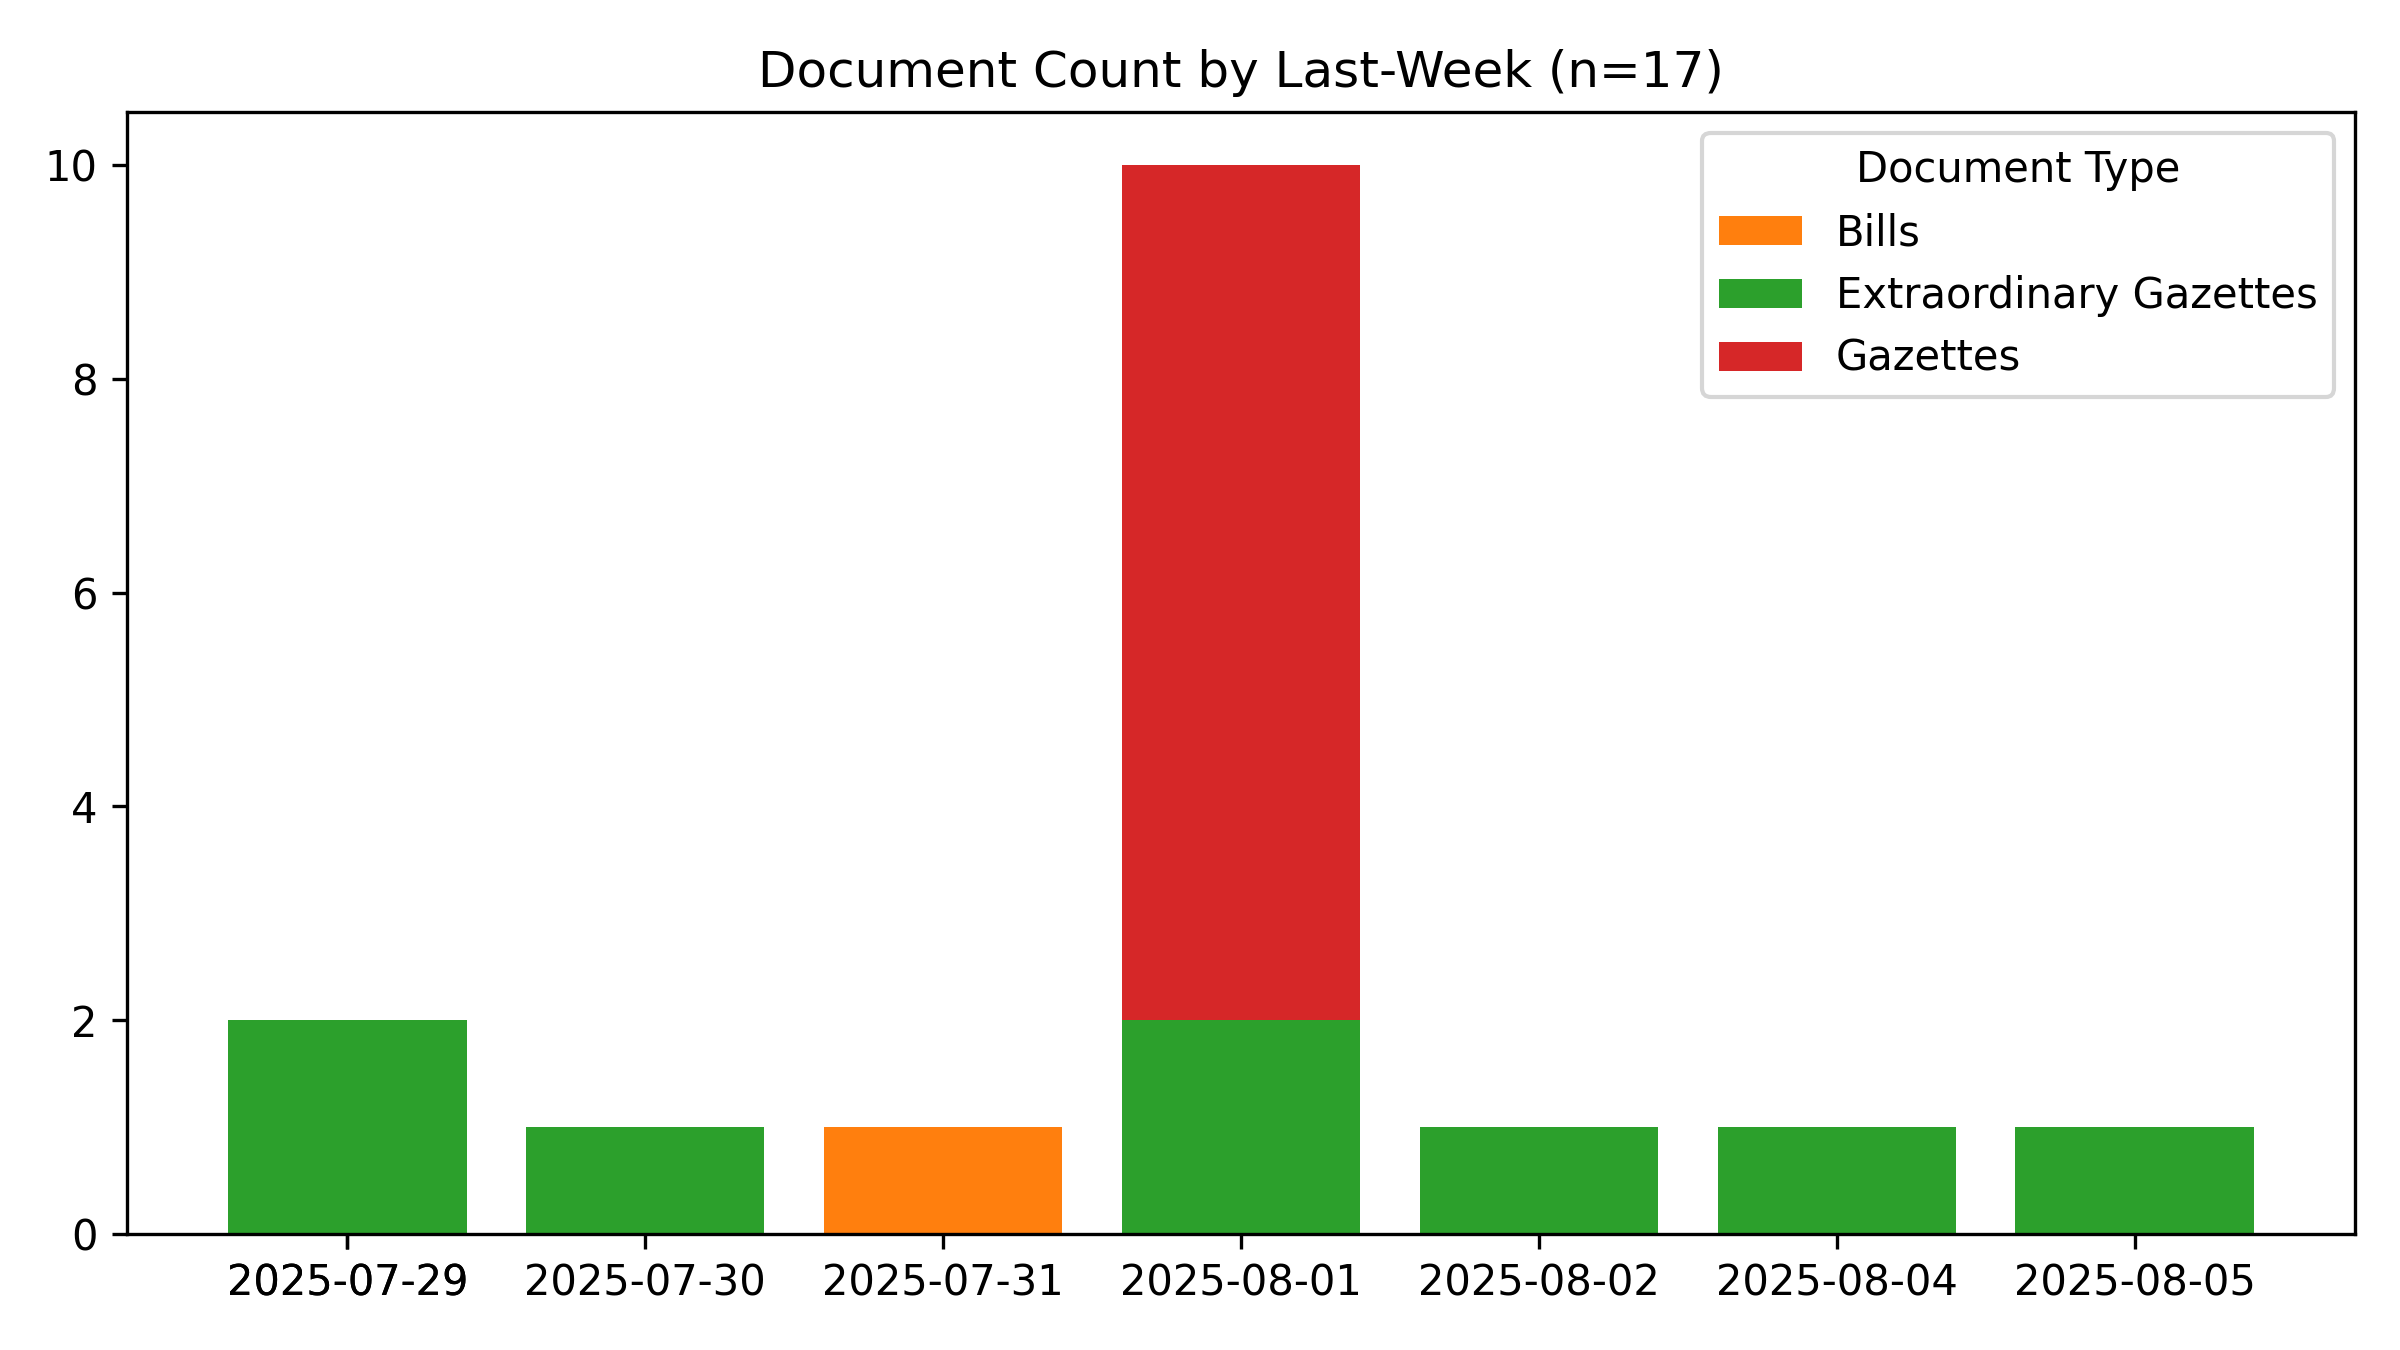
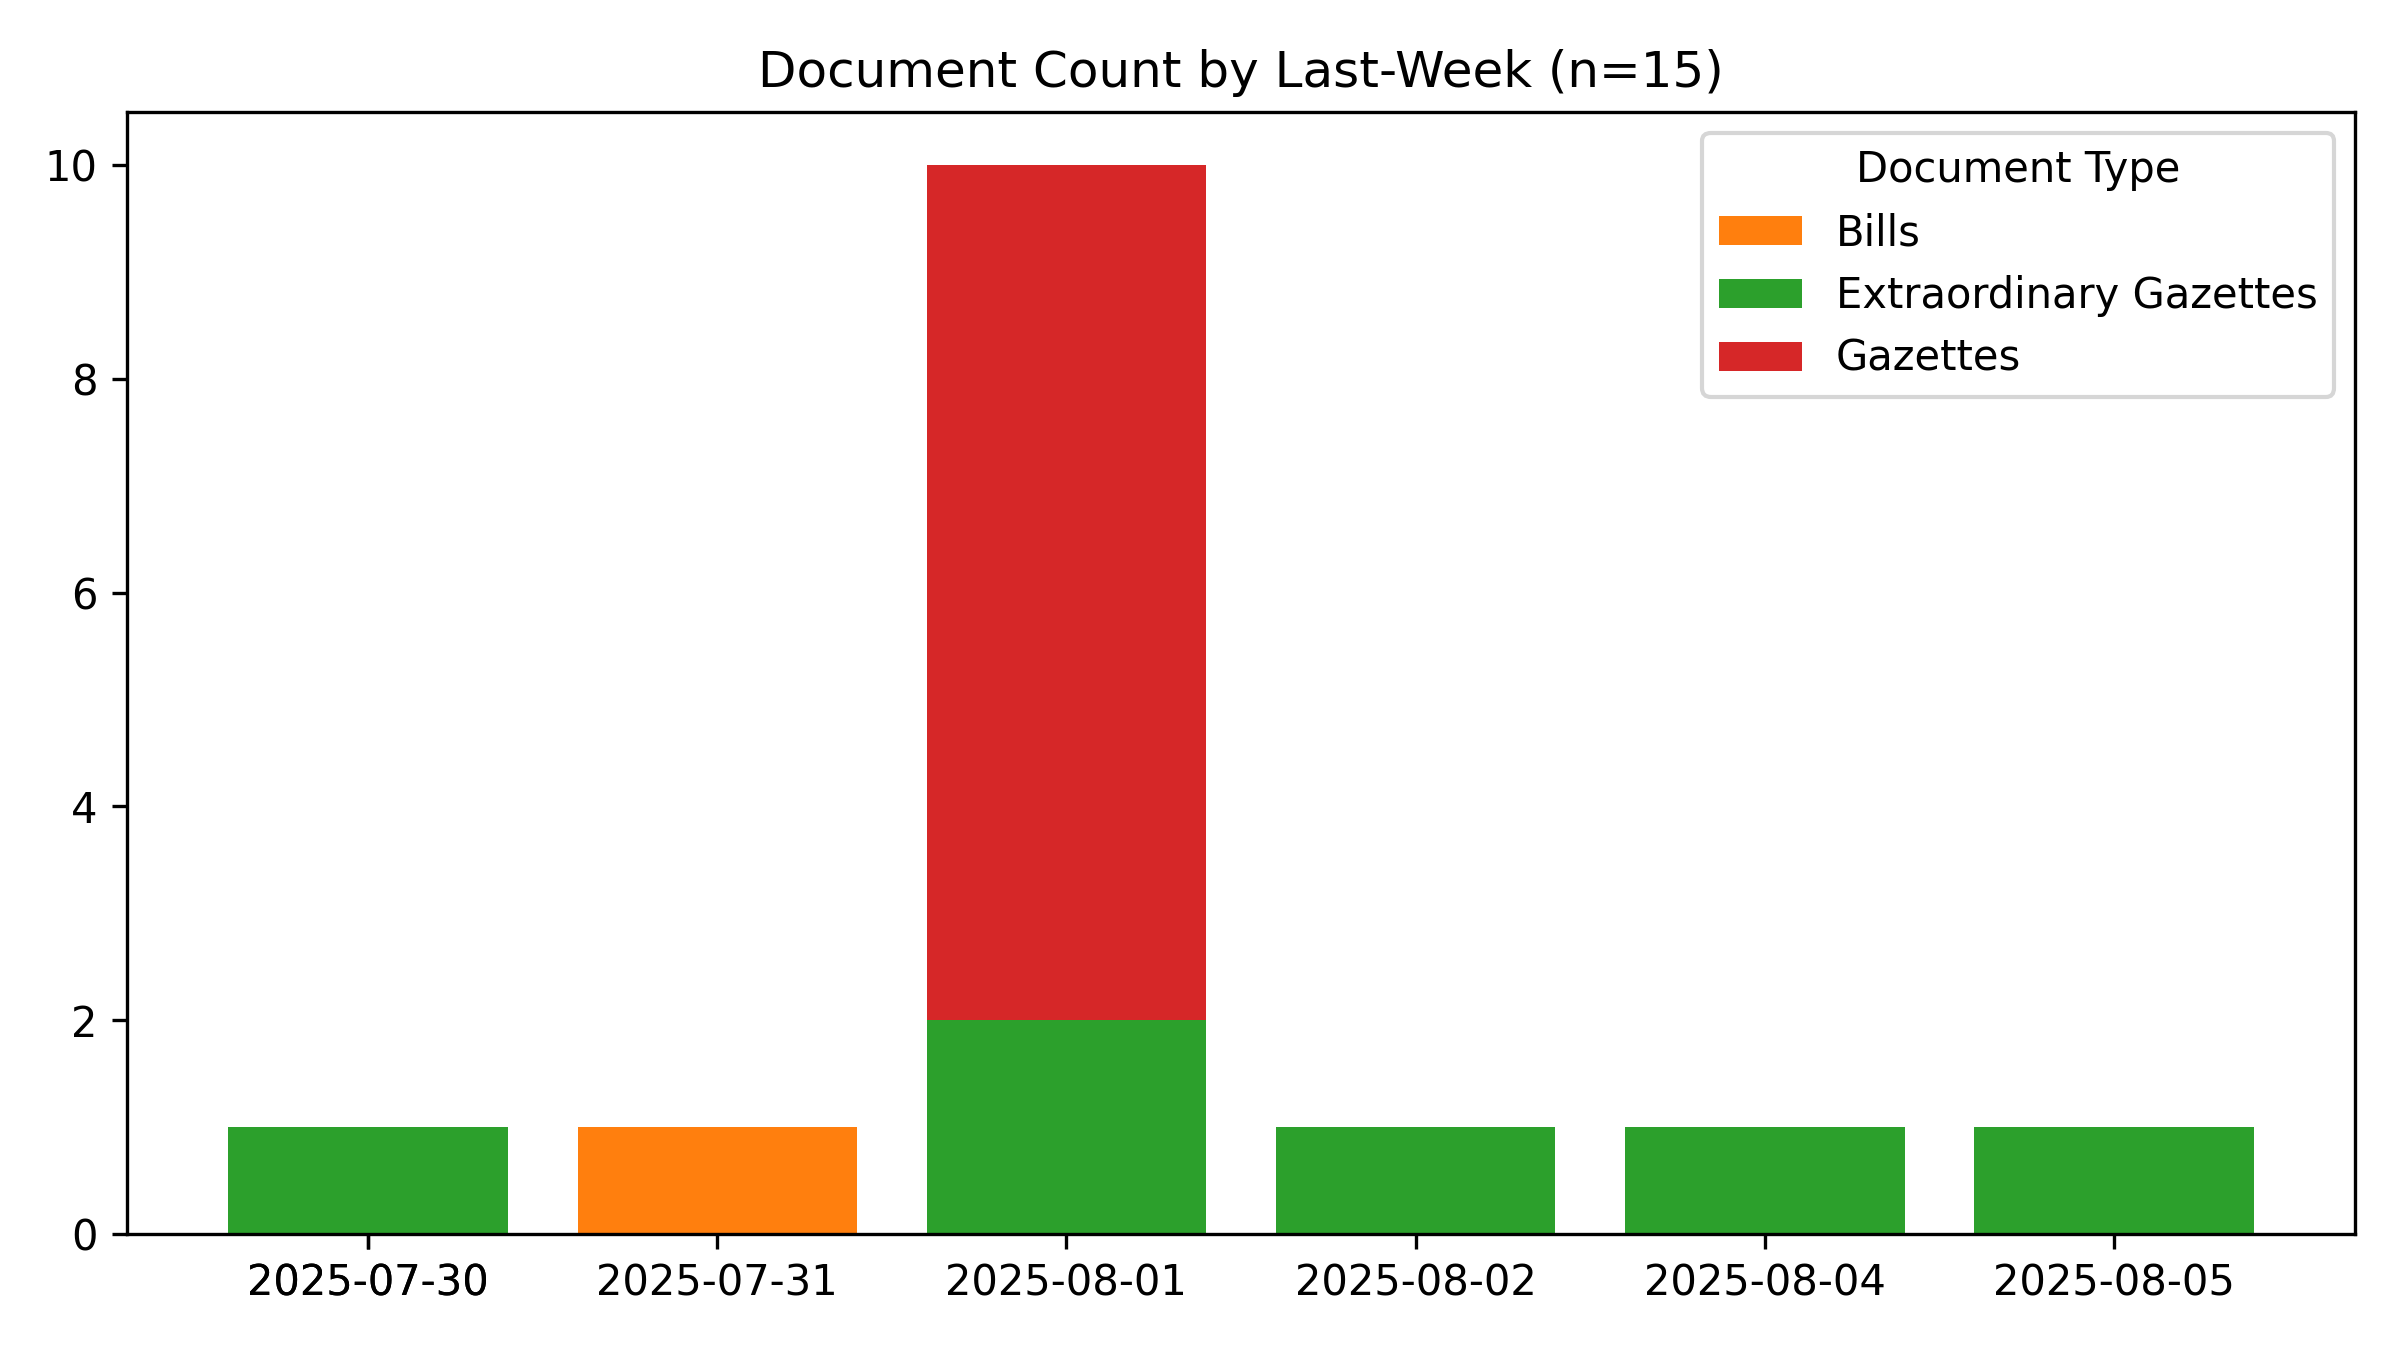
🤖 [build_readme.yml] 2025-08-06-0017

Changed region(s): [[0.0938, 0.1244, 0.9375, 0.9644], [0.6875, 0.0311, 0.7188, 0.0622]]

diff --git a/README.md b/README.md
@@ -1,6 +1,6 @@
 # #SriLanka 🇱🇰 - Legal Documents #Dataset
 
-*Last Updated **2025-08-06 05:15:14**.*
+*Last Updated **2025-08-06 05:47:20**.*
 
 **44,215** documents (24.2 MB), from 1981-01-22 to 2025-08-05.
 
@@ -36,11 +36,11 @@ For best results, use a desktop browser.
 | decade | n_docs | n_docs_with_pdfs | p_progress | n_pdfs | total_file_size_g |
 | :-- | --: | --: | --: | --: | --: |
 | [2020s](https://github.com/nuuuwan/lk_legal_docs_data/tree/data_2020s/data) | 18,006 | 17,997 | >99.9% | 51,507 | 21.1 GB |
-| [2010s](https://github.com/nuuuwan/lk_legal_docs_data/tree/data_2010s/data) | 24,451 | 22,289 | 91.2% | 63,599 | 20.9 GB |
+| [2010s](https://github.com/nuuuwan/lk_legal_docs_data/tree/data_2010s/data) | 24,451 | 22,334 | 91.3% | 63,722 | 20.9 GB |
 | [2000s](https://github.com/nuuuwan/lk_legal_docs_data/tree/data_2000s/data)✅ | 1,015 | 1,015 | 100% | 2,923 | 1.8 GB |
 | [1990s](https://github.com/nuuuwan/lk_legal_docs_data/tree/data_1990s/data)✅ | 339 | 339 | 100% | 655 | 0.2 GB |
 | [1980s](https://github.com/nuuuwan/lk_legal_docs_data/tree/data_1980s/data)✅ | 404 | 404 | 100% | 603 | 0.3 GB |
-| **Total** | **44,215** | **42,044** | **95.1%** | **119,287** | **44.2 GB** |
+| **Total** | **44,215** | **42,089** | **95.2%** | **119,410** | **44.2 GB** |
 
 (✅ = All published documents have been downloaded.)
 
@@ -56,7 +56,7 @@ For best results, use a desktop browser.
 
 ## Recent Documents (Published during the last 7 days)
 
-**17** Documents
+**15** Documents
 
 - 🚨 [2025-08-05] [Elections Commission - Notice under Section 66 A(1) (a) Filling of a vacancy in the Office of  Member of the Manmunai Pattu Pradeshiya Sabha.](https://github.com/nuuuwan/lk_legal_docs_data/tree/data_2020s/data/extra-gazettes/2025/2448-17)
 - 🚨 [2025-08-04] [Sri Lanka Customs- Rates of Exchange with effect from 04.08.2025 to 10.08.2025](https://github.com/nuuuwan/lk_legal_docs_data/tree/data_2020s/data/extra-gazettes/2025/2448-01)
@@ -73,5 +73,3 @@ For best results, use a desktop browser.
 - 📢 [2025-08-01] [(I) - General](https://github.com/nuuuwan/lk_legal_docs_data/tree/data_2020s/data/gazettes/2025/2025-08-01-i-general)
 - ✍ [2025-07-31] [PresidentsÃ¢â¬â¢ Entitlements (Repeal) - GS](https://github.com/nuuuwan/lk_legal_docs_data/tree/data_2020s/data/bills/2025/624-2025)
 - 🚨 [2025-07-30] [Election Commission - Notice under Section 66 A(1) Filling of a Vacancy in the office of members of the Walikaman West Pradeshiya Sabha](https://github.com/nuuuwan/lk_legal_docs_data/tree/data_2020s/data/extra-gazettes/2025/2447-28)
-- 🚨 [2025-07-29] [Sri Lanka Ports Authority- Certificate under and Interms of Section 42 A (1) of the Sri Lanka Ports Authority - ABCC Phoenix Shipping (Pvt) Limited](https://github.com/nuuuwan/lk_legal_docs_data/tree/data_2020s/data/extra-gazettes/2025/2447-25)
-- 🚨 [2025-07-29] [Ministry of Labour - Industrial dispute between Mr. P. A. Bogoda and Upali Newspapers (Pvt) Ltd 2.W. M. Ashaka Damayanthi and Sri Lanka Mahaweli Authority 3. D. M. Dissanayaka and SLTB](https://github.com/nuuuwan/lk_legal_docs_data/tree/data_2020s/data/extra-gazettes/2025/2447-24)
